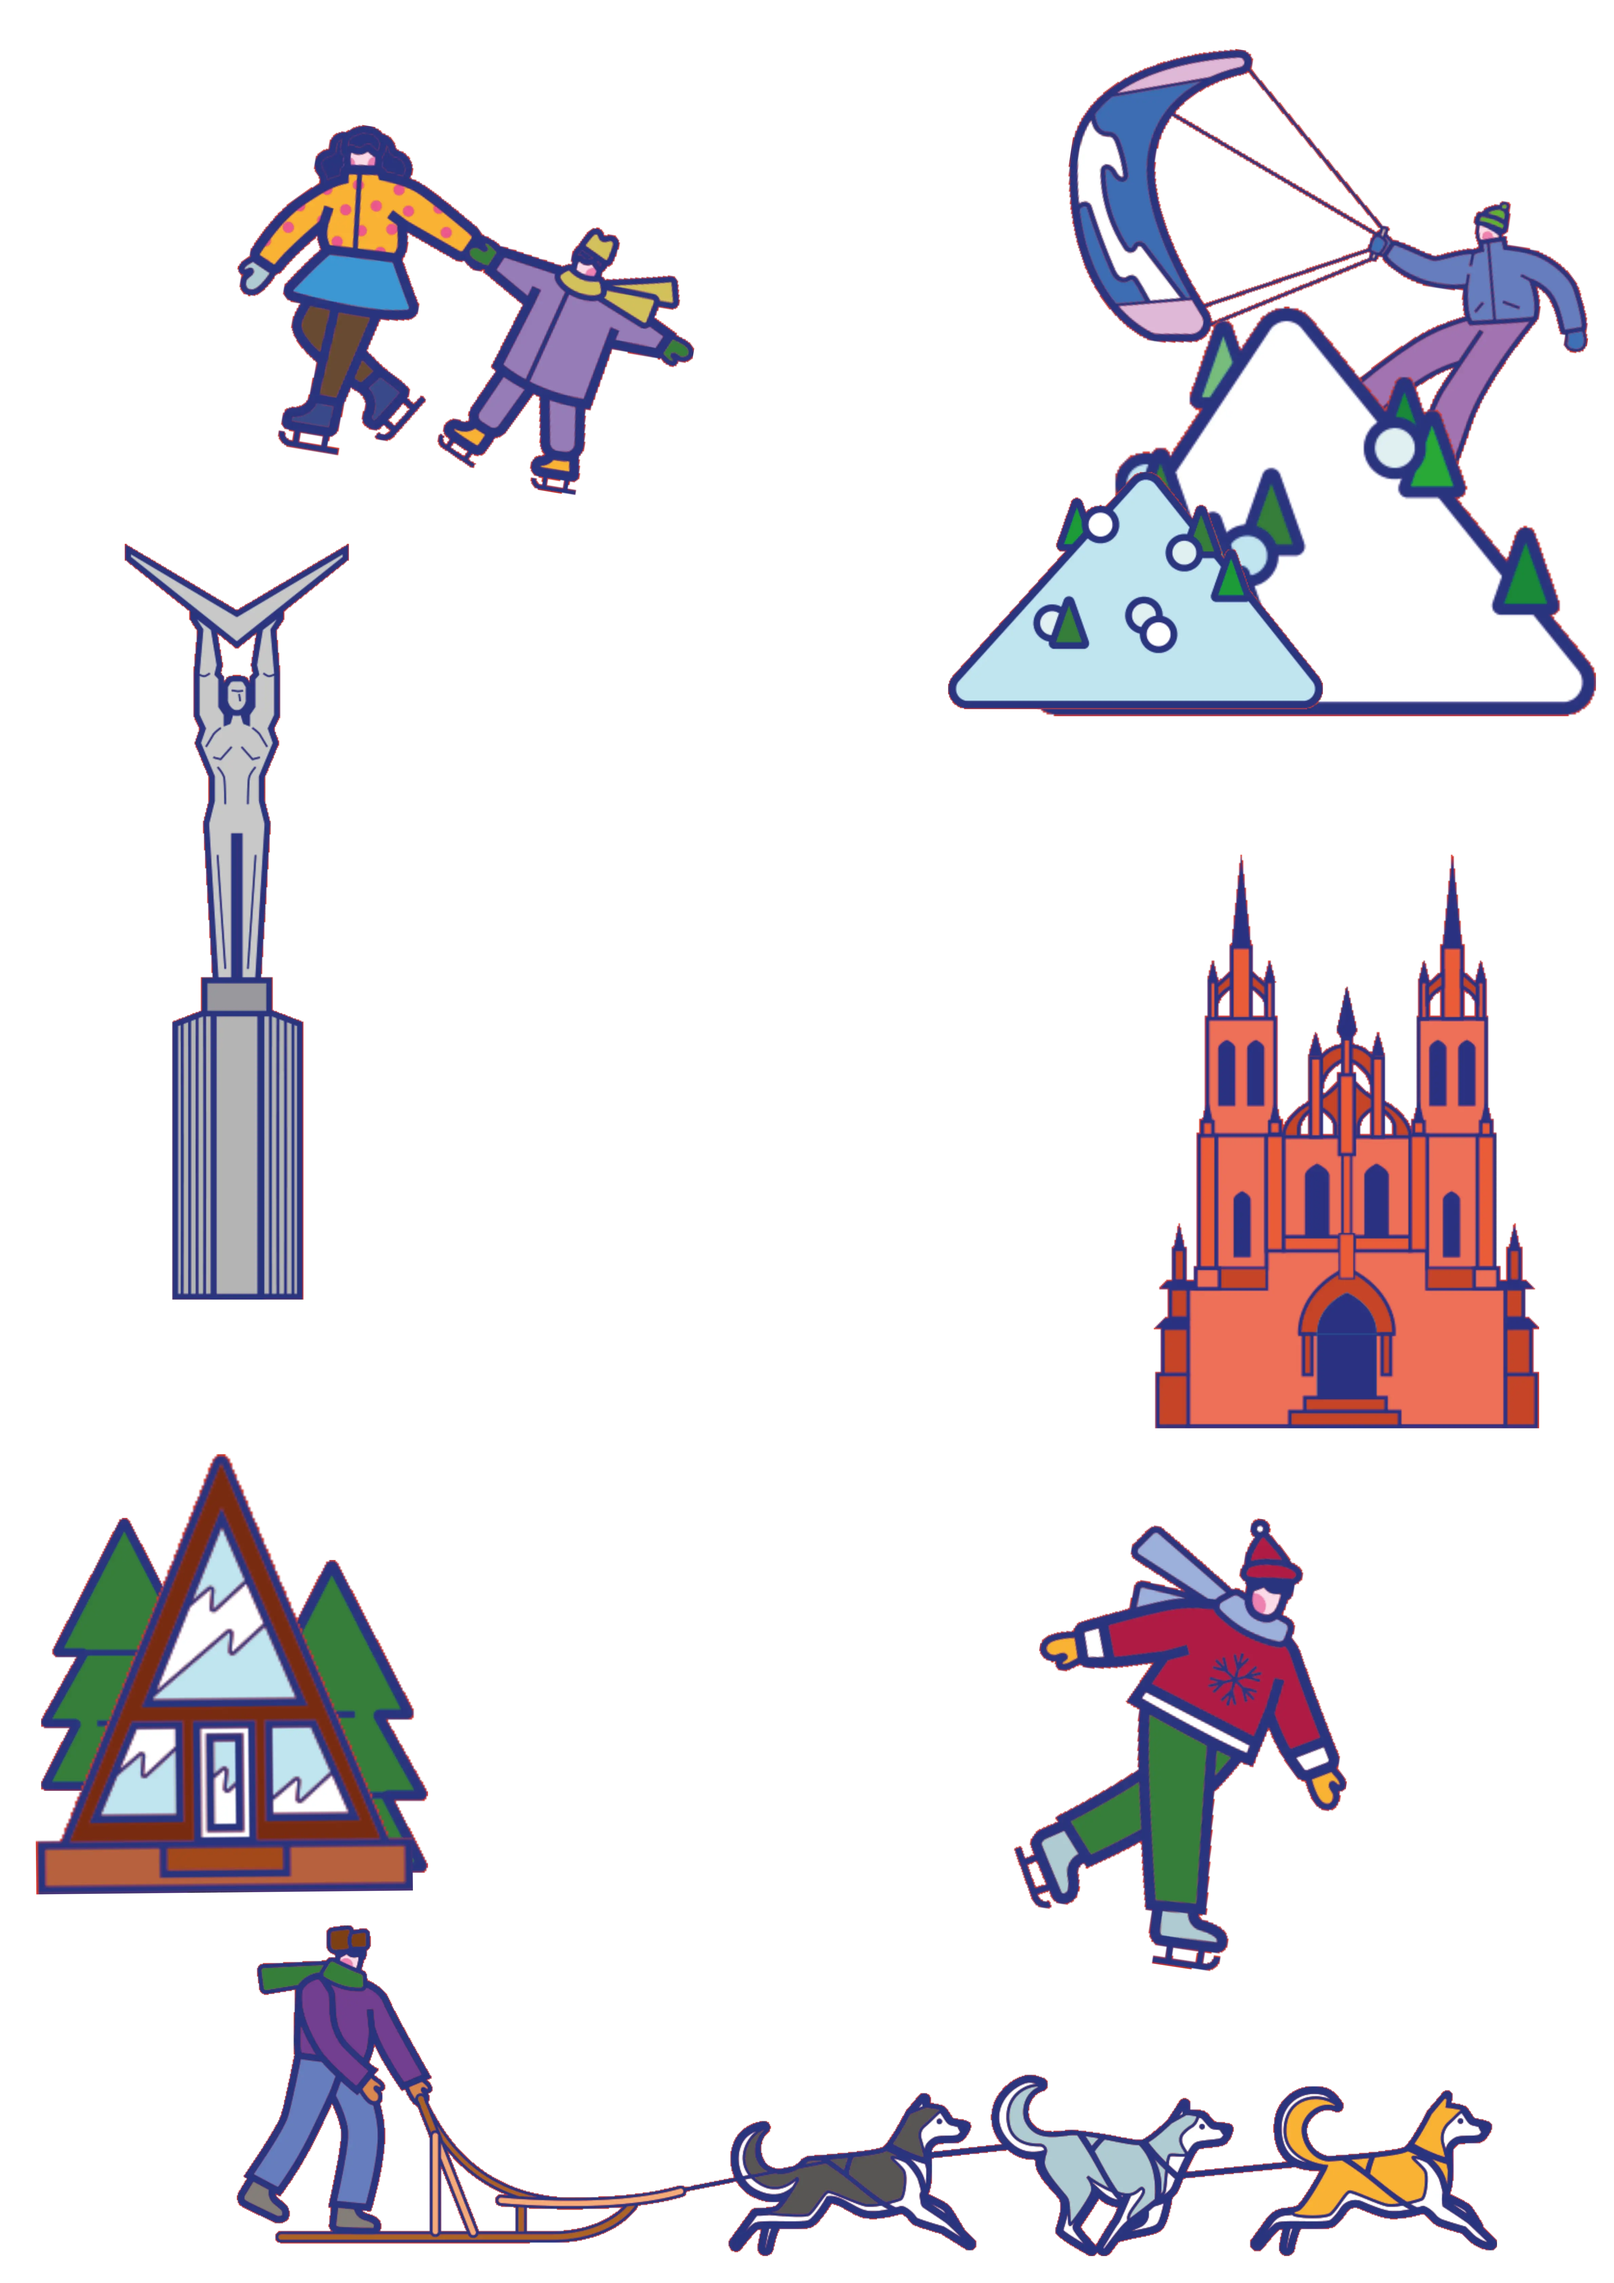
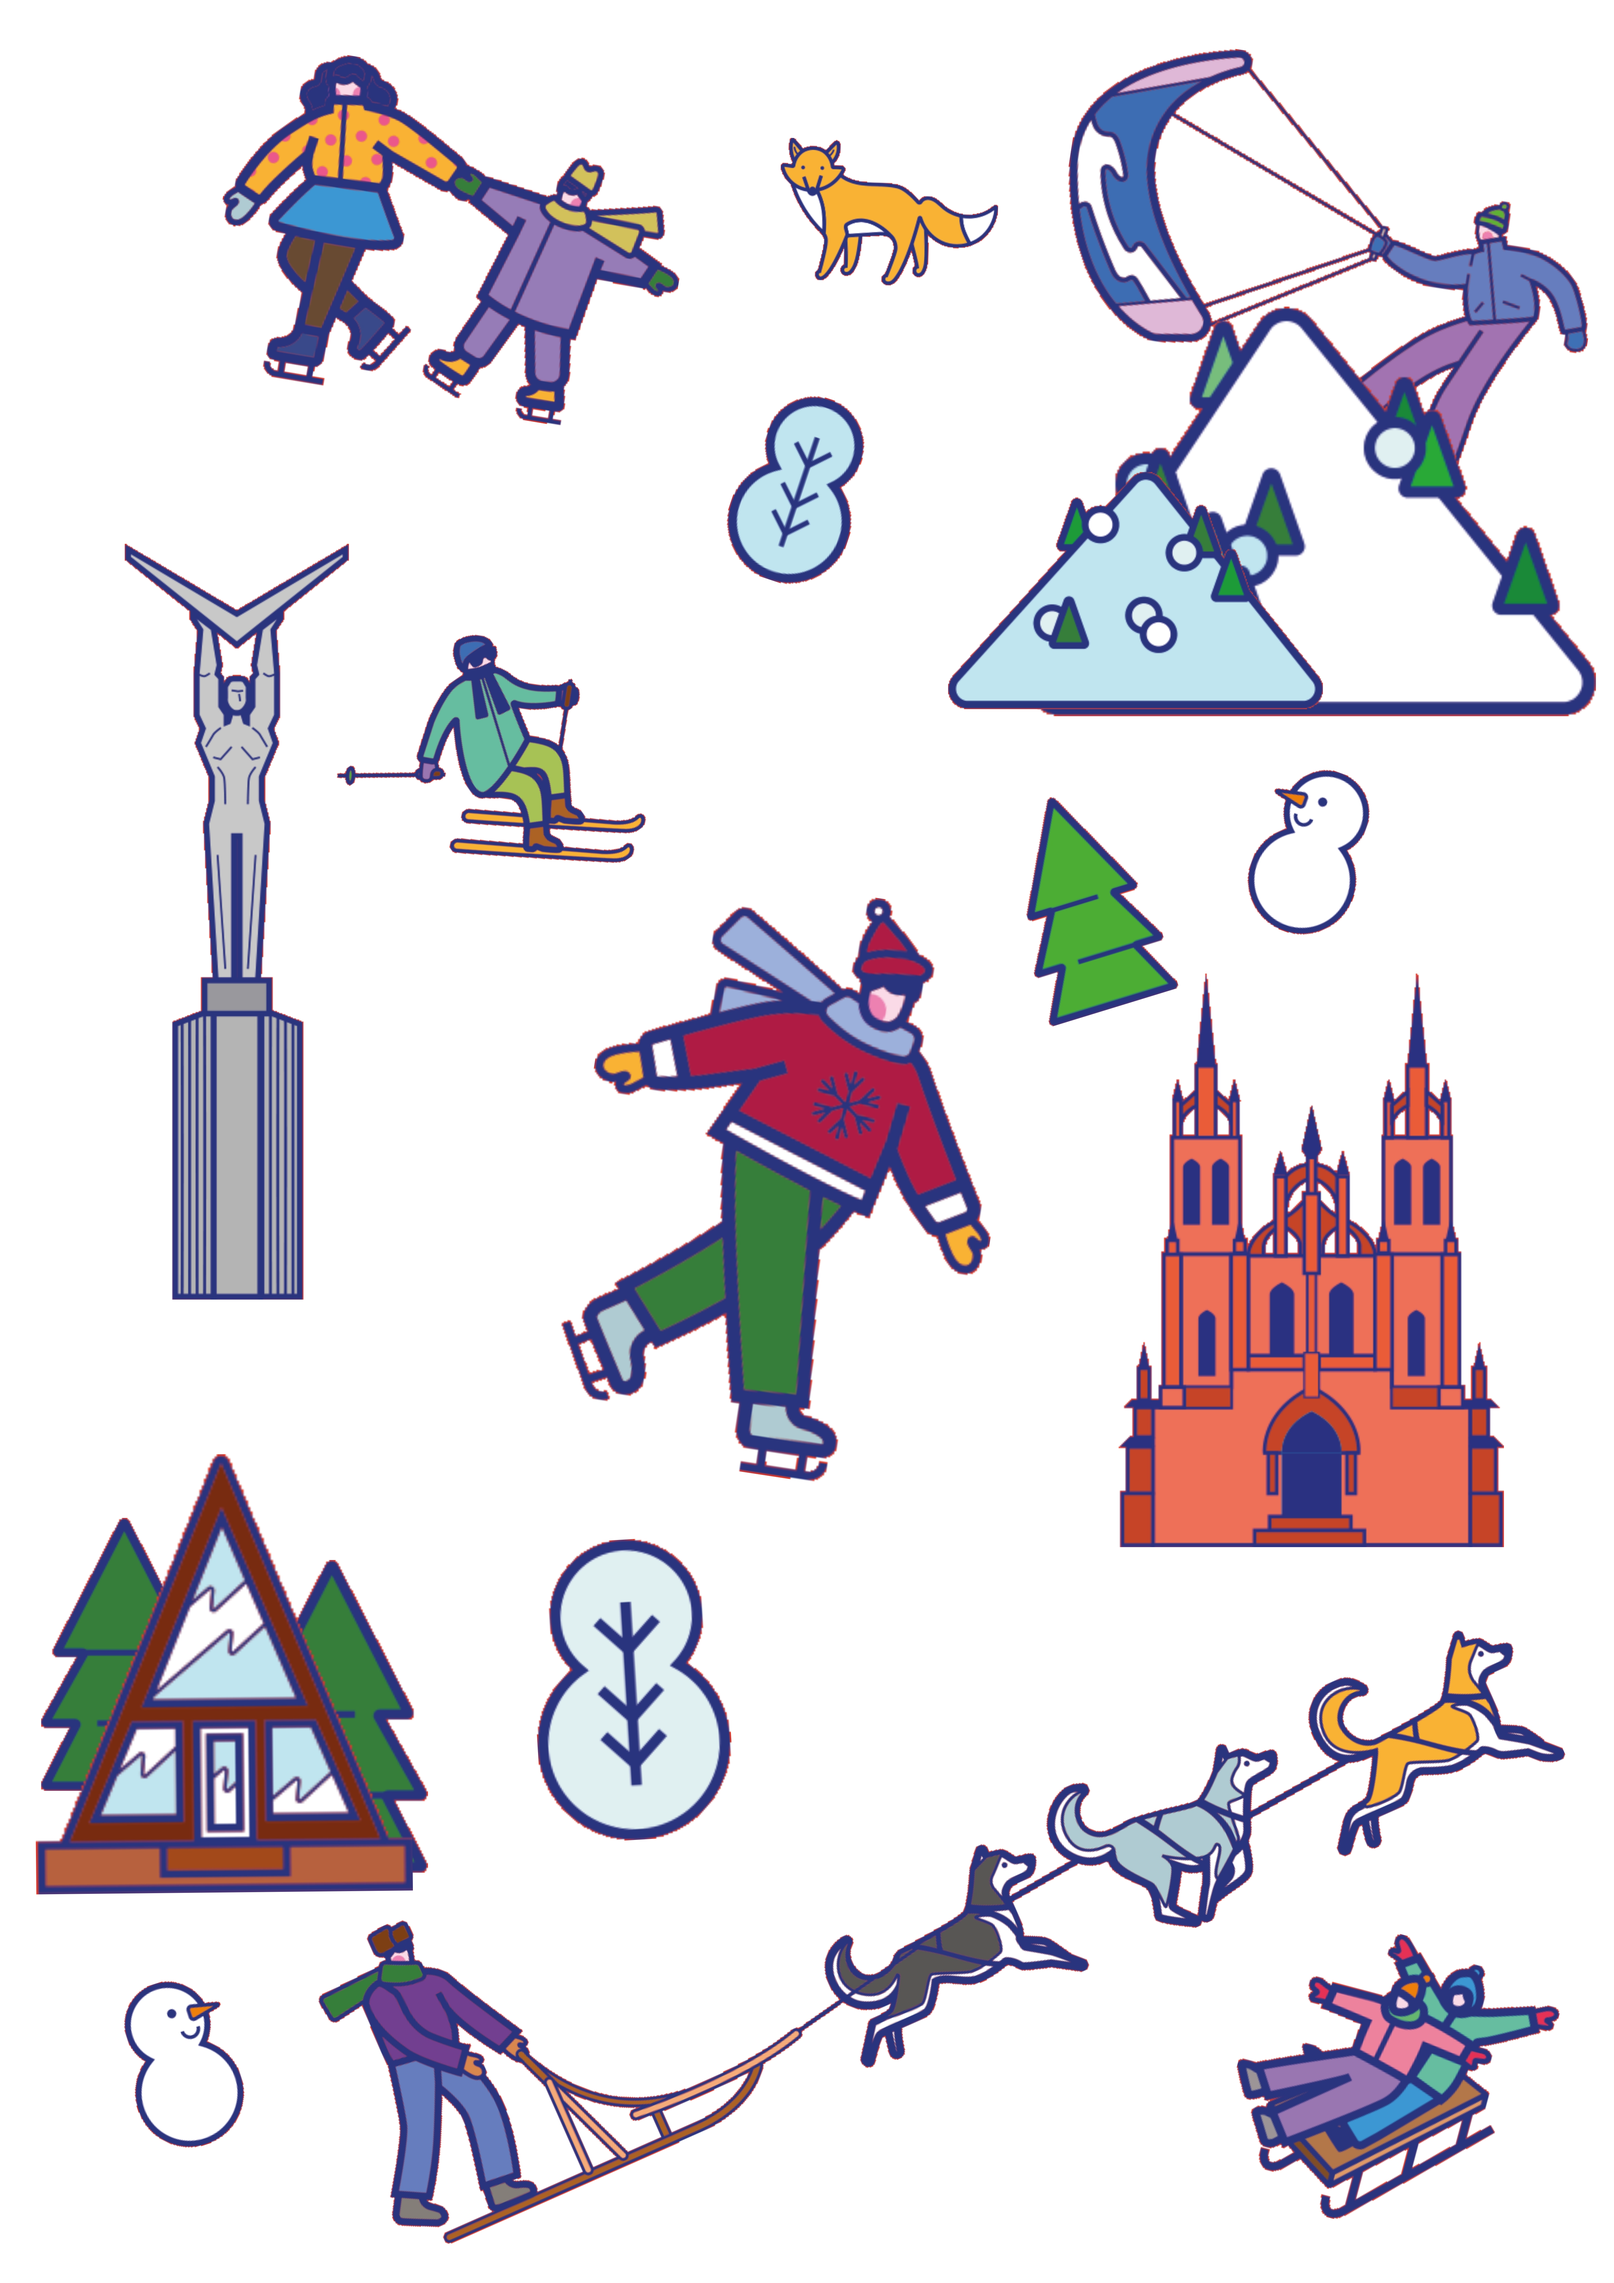
image

diff --git a/index.html b/index.html
@@ -12,17 +12,21 @@
             background: #cc2c0c;
             font-family: Arial, sans-serif;
             text-align: center;
-            /* -webkit-text-stroke: 2px rgb(37, 34, 34); */
             padding-top: 60px;
             color: white;
             overflow-x: hidden;
             min-height: 100vh;
-            background-image: url('images/symbols.webp');
-            background-size: contain;        /* Растягивает картинку на весь экран */
-            background-position: center;   /* Центрирует картинку */
-            background-repeat: no-repeat;  /* Запрещает повторение картинки */
-            background-attachment: fixed;  /* Фон не прокручивается вместе с контентом (опционально) */
             height: 100vh;   
+        }
+
+        .bg-image {
+            position: fixed;
+            top: 0;
+            left: 0;
+            width: 100%;
+            height: 100%;
+            object-fit: contain;
+            z-index: -1;  
         }
 
         h2 {
@@ -82,6 +86,8 @@
 
 <a href="https://vk.com/samaravisit">Наше сообщество в VK</a>
 <a href="https://t.me/samaravisit">Telegram-канал</a>
+
+<img loading="lazy" src="images/symbols.webp" alt="" class="bg-image">
 
 <script>
     const amount = 50;
